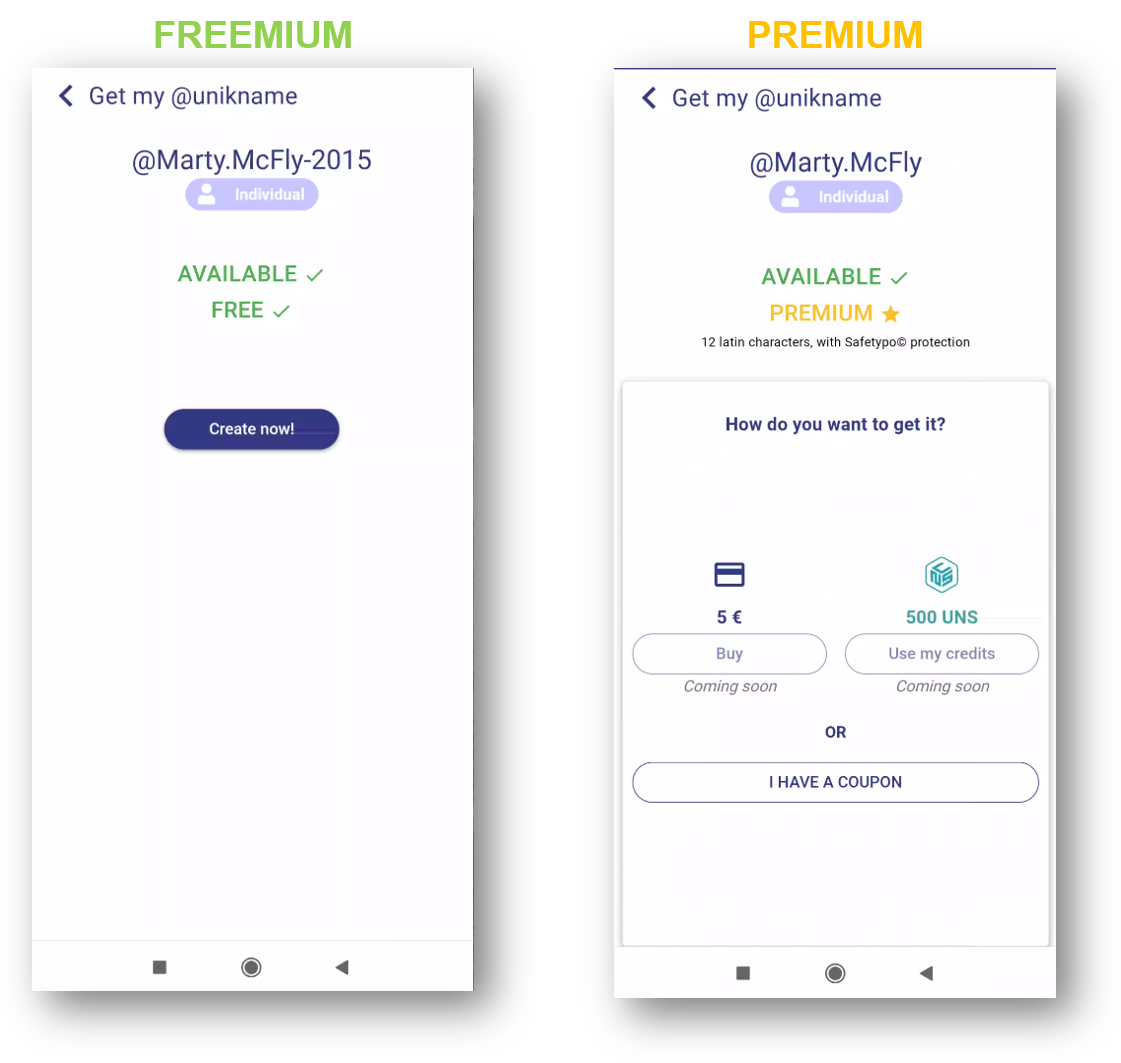
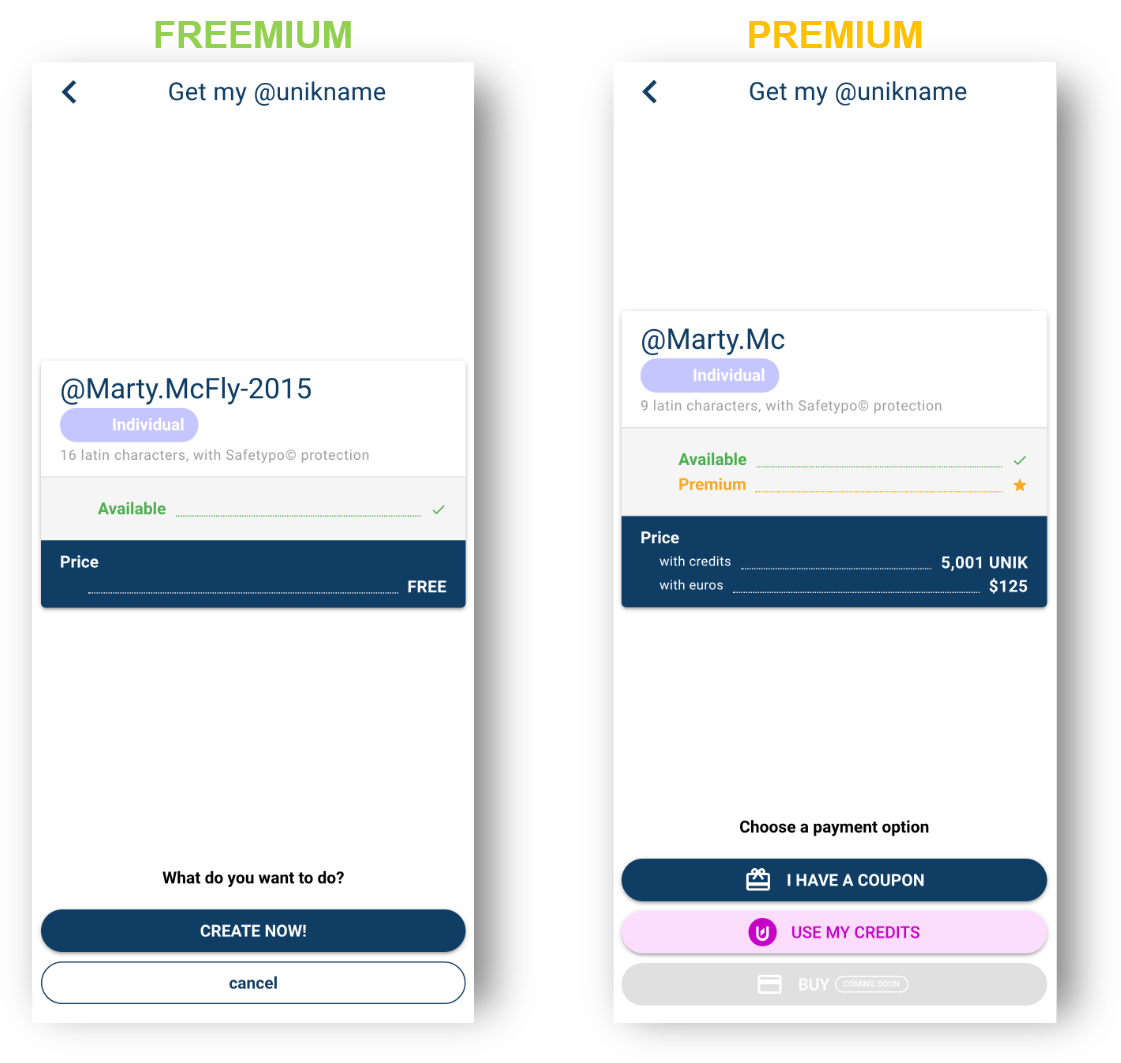
feat: add new prices

diff --git a/docs/2-unikname-id/howmuch-cost-uniknameid.md b/docs/2-unikname-id/howmuch-cost-uniknameid.md
@@ -15,28 +15,15 @@ All PREMIUM @Unikname IDs have the following specifications:
 
 The getter of a PREMIUM @unikname ID remains the owner of his identifier for no limit of time, provided that the identifier has been activated within 4 weeks and it used regularly*. So it is recommended to activate it as soon as you get it.
 
-## PREMIUM - Common
+## PREMIUM
 
 | Type | specifications | price |
 | :- | :- | -: |
-| Regular | 10 characters and more | 10 € |
-| Short | 7 characters and more | 50 € |
-| Rare | 4 characters and more | 500 € |
-
-## PREMIUM - Tiny
-
-| Type | specifications | price |
-| :- | :- | -: |
-| Tiny3  | 3 characters | 5 000 € |
-| Tiny2  | 2 characters | 50 000 € |
-
-## PREMIUM - Only Digit
-
-| Type | specifications | price |
-| :- | :- | -: |
-| Digit Long  | 10 characters | 50 € |
-| Digit Standard  | 6 characters | 500 € |
-| Digit Tiny  | 3 characters | 5 000 € |
+| Long | 15 characters and more | $12.5 |
+| Regular | 10-14 characters | $25 |
+| Short | 7-9 characters | $125 |
+| Rare | 4-6 characters | $1250 |
+| Tiny3 | 3 characters | $12500 |
 
 ## *End of life option
 
@@ -44,4 +31,4 @@ Every @unikname ID may have an end of life and can be recycled if its owner die.
 
 | Option | Description | price |
 | :- | :- | -: |
-| Everlasting  | Disable end of life. | 100 € |
+| Everlasting  | Disable end of life. | $100 |
